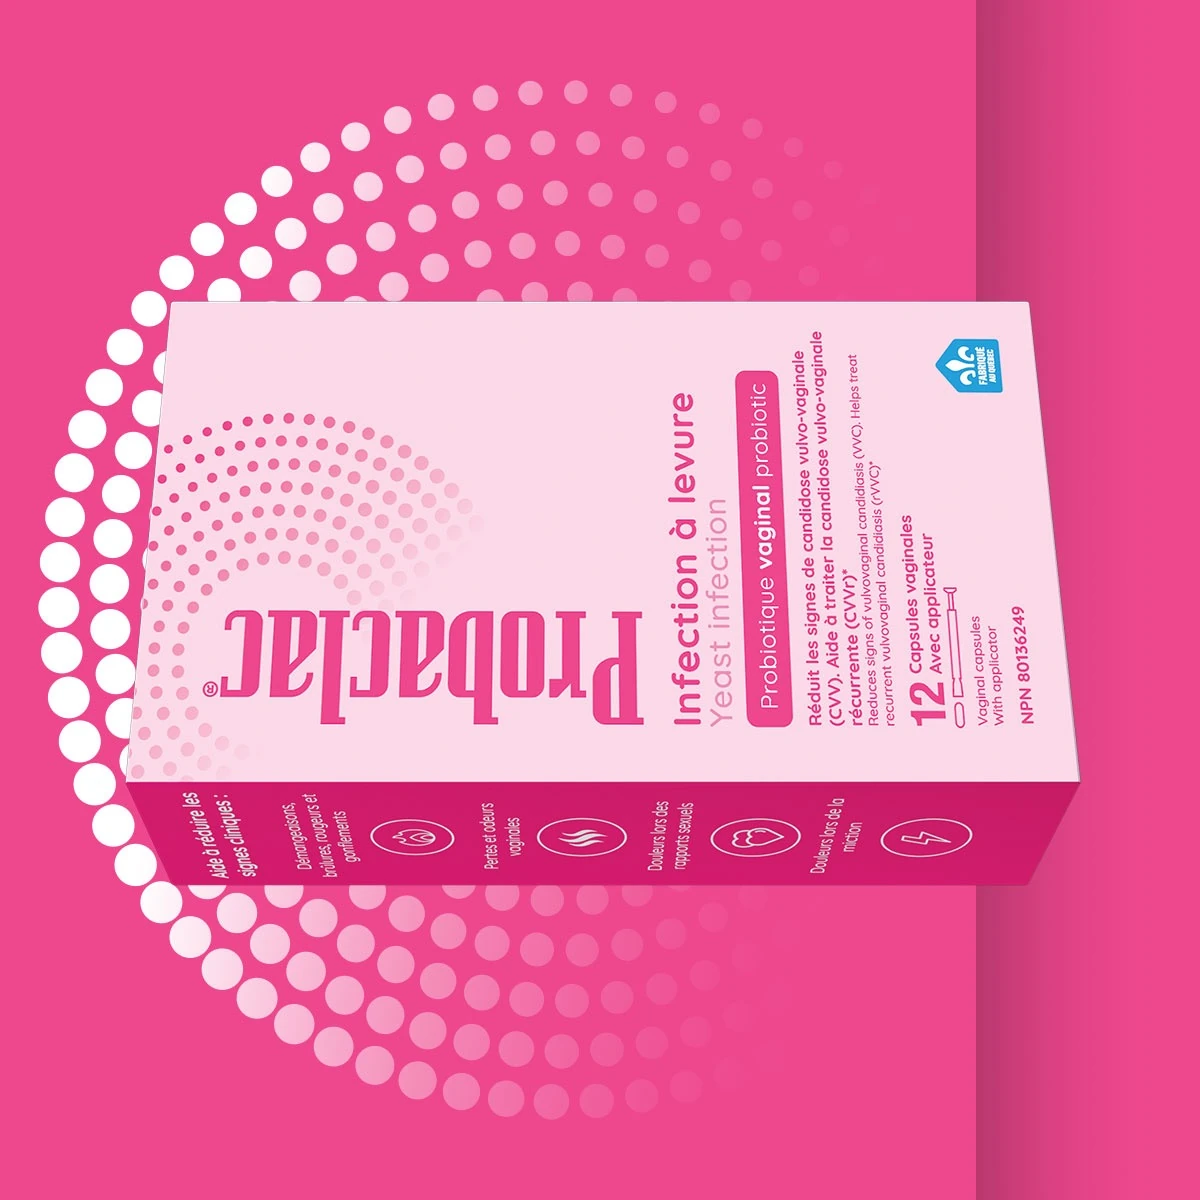
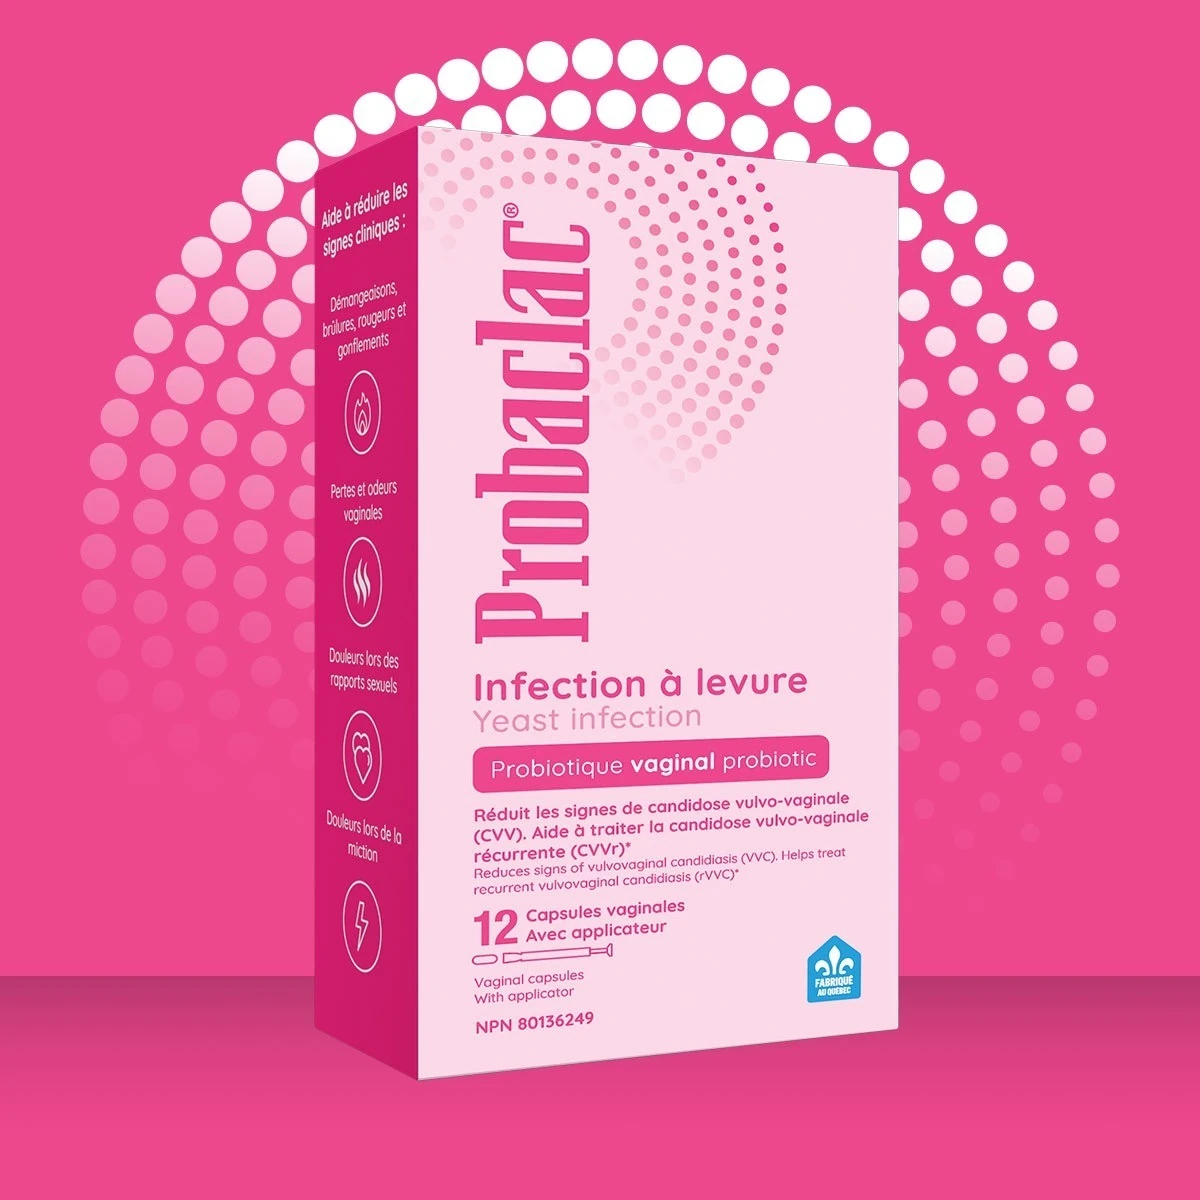
fix(produits+nav): redress 3 box images + add "Commander en ligne" link
Images:
- vaginal, rosella: source was rotated 90° clockwise → flip 180° (after first +90°)
- canneberge: source was rotated 90° counter-clockwise → rotate -90°
- Re-encoded as JPG q92 + WebP q90 in both formats

Nav:
- Add "Commander en ligne" (FR) / "Order online" (EN) → https://monprobiotique.ca
- After FAQ in desktop nav + mobile menu of 6 etudes pages

diff --git a/sousdomaine/etudes/sci.html b/sousdomaine/etudes/sci.html
@@ -327,6 +327,10 @@ height="0" width="0" style="display:none;visibility:hidden"></iframe></noscript>
         <li class="pbc-nav-item">
           <a href="https://www.probaclac.ca/foire-aux-questions" class="pbc-nav-link">FAQ</a>
         </li>
+
+        <li class="pbc-nav-item">
+          <a href="https://monprobiotique.ca" class="pbc-nav-link">Commander en ligne</a>
+        </li>
       </ul>
     </nav>
     <div class="pbc-nav-right">
@@ -351,6 +355,7 @@ height="0" width="0" style="display:none;visibility:hidden"></iframe></noscript>
     </li>
     <li><a href="index.html">Études</a></li>
     <li><a href="https://www.probaclac.ca/foire-aux-questions">FAQ</a></li>
+    <li><a href="https://monprobiotique.ca">Commander en ligne</a></li>
   </ul>
   <div class="mobile-lang">
     <a href="index.html" class="active-lang">FR</a>

diff --git a/sousdomaine/etudes/lebonprobiotique.html b/sousdomaine/etudes/lebonprobiotique.html
@@ -820,6 +820,10 @@ height="0" width="0" style="display:none;visibility:hidden"></iframe></noscript>
         <li class="pbc-nav-item">
           <a href="https://www.probaclac.ca/foire-aux-questions" class="pbc-nav-link">FAQ</a>
         </li>
+
+        <li class="pbc-nav-item">
+          <a href="https://monprobiotique.ca" class="pbc-nav-link">Commander en ligne</a>
+        </li>
       </ul>
     </nav>
 
@@ -846,6 +850,7 @@ height="0" width="0" style="display:none;visibility:hidden"></iframe></noscript>
     </li>
     <li><a href="index.html">Études</a></li>
     <li><a href="https://www.probaclac.ca/foire-aux-questions">FAQ</a></li>
+    <li><a href="https://monprobiotique.ca">Commander en ligne</a></li>
   </ul>
   <div class="mobile-lang">
     <a href="lebonprobiotique.html" class="active-lang">FR</a>

diff --git a/sousdomaine/etudes/choisir.html b/sousdomaine/etudes/choisir.html
@@ -432,6 +432,10 @@ section{padding:0;flex-shrink:0;flex-grow:0;height:auto!important}
         </li>
 
         <li class="pbc-nav-item">
+          <a href="https://monprobiotique.ca" class="pbc-nav-link">Commander en ligne</a>
+        </li>
+
+        <li class="pbc-nav-item">
           <a href="http://www.monprobiotique.ca" class="pbc-nav-link">Commander en ligne</a>
         </li>
       </ul>
@@ -458,6 +462,7 @@ section{padding:0;flex-shrink:0;flex-grow:0;height:auto!important}
       </div>
     </li>
     <li><a href="https://www.probaclac.ca/foire-aux-questions">FAQ</a></li>
+    <li><a href="https://monprobiotique.ca">Commander en ligne</a></li>
     <li><a href="http://www.monprobiotique.ca">Commander en ligne</a></li>
   </ul>
   <div class="mobile-lang">

diff --git a/sousdomaine/etudes/choose.html b/sousdomaine/etudes/choose.html
@@ -432,6 +432,10 @@ section{padding:0;flex-shrink:0;flex-grow:0;height:auto!important}
         </li>
 
         <li class="pbc-nav-item">
+          <a href="https://monprobiotique.ca" class="pbc-nav-link">Order online</a>
+        </li>
+
+        <li class="pbc-nav-item">
           <a href="http://www.monprobiotique.ca" class="pbc-nav-link">Online store</a>
         </li>
       </ul>
@@ -458,6 +462,7 @@ section{padding:0;flex-shrink:0;flex-grow:0;height:auto!important}
       </div>
     </li>
     <li><a href="https://www.probaclac.ca/en/foire-aux-questions">FAQ</a></li>
+    <li><a href="https://monprobiotique.ca">Order online</a></li>
     <li><a href="http://www.monprobiotique.ca">Online store</a></li>
   </ul>
   <div class="mobile-lang">

diff --git a/sousdomaine/etudes/index.html b/sousdomaine/etudes/index.html
@@ -614,6 +614,10 @@ src="https://www.facebook.com/tr?id=2440628703062561&ev=PageView&noscript=1"
           <a href="https://www.probaclac.ca/foire-aux-questions" class="pbc-nav-link">FAQ</a>
         </li>
 
+        <li class="pbc-nav-item">
+          <a href="https://monprobiotique.ca" class="pbc-nav-link">Commander en ligne</a>
+        </li>
+
       </ul>
     </nav>
 
@@ -638,6 +642,7 @@ src="https://www.facebook.com/tr?id=2440628703062561&ev=PageView&noscript=1"
       </div>
     </li>
     <li><a href="https://www.probaclac.ca/foire-aux-questions">FAQ</a></li>
+    <li><a href="https://monprobiotique.ca">Commander en ligne</a></li>
   </ul>
   <div class="mobile-lang">
     <a href="index.html" class="active-lang">FR</a>

diff --git a/sousdomaine/etudes/studies.html b/sousdomaine/etudes/studies.html
@@ -594,6 +594,10 @@ body{padding-top:0}
           <a href="https://www.probaclac.ca/foire-aux-questions" class="pbc-nav-link">FAQ</a>
         </li>
 
+        <li class="pbc-nav-item">
+          <a href="https://monprobiotique.ca" class="pbc-nav-link">Order online</a>
+        </li>
+
       </ul>
     </nav>
 
@@ -618,6 +622,7 @@ body{padding-top:0}
       </div>
     </li>
     <li><a href="https://www.probaclac.ca/foire-aux-questions">FAQ</a></li>
+    <li><a href="https://monprobiotique.ca">Order online</a></li>
   </ul>
   <div class="mobile-lang">
     <a href="index.html">FR</a>
